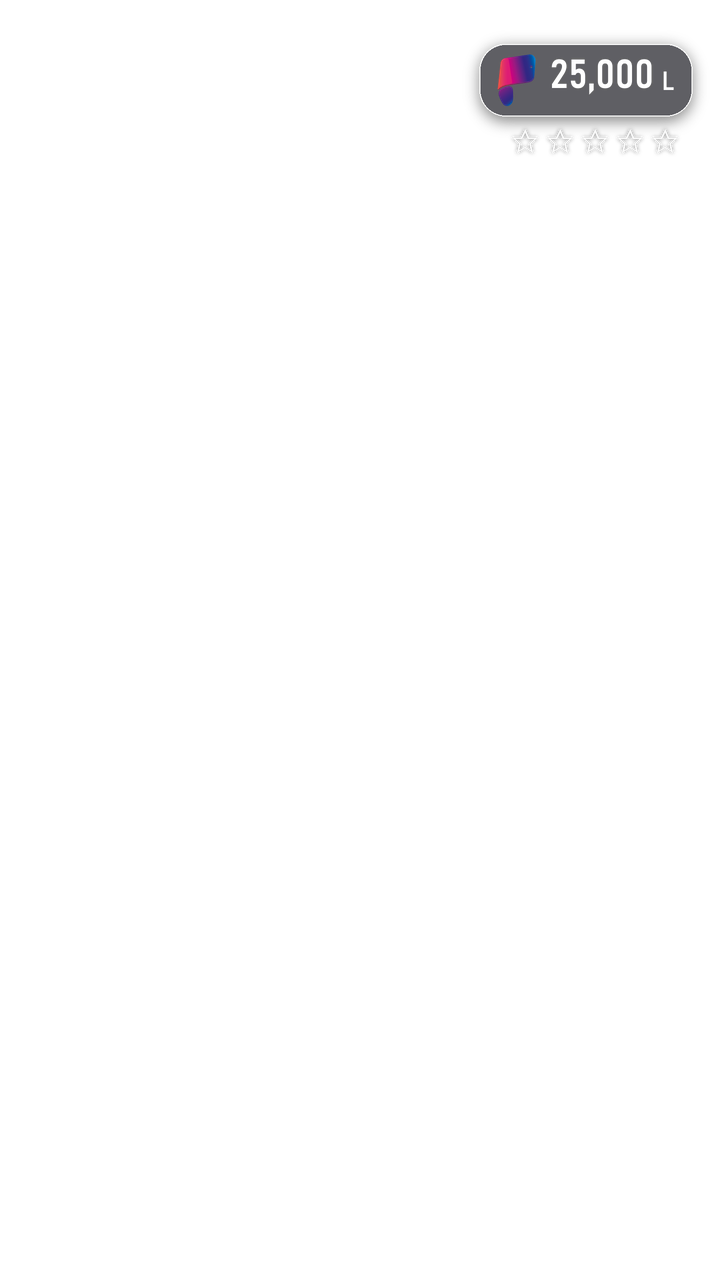
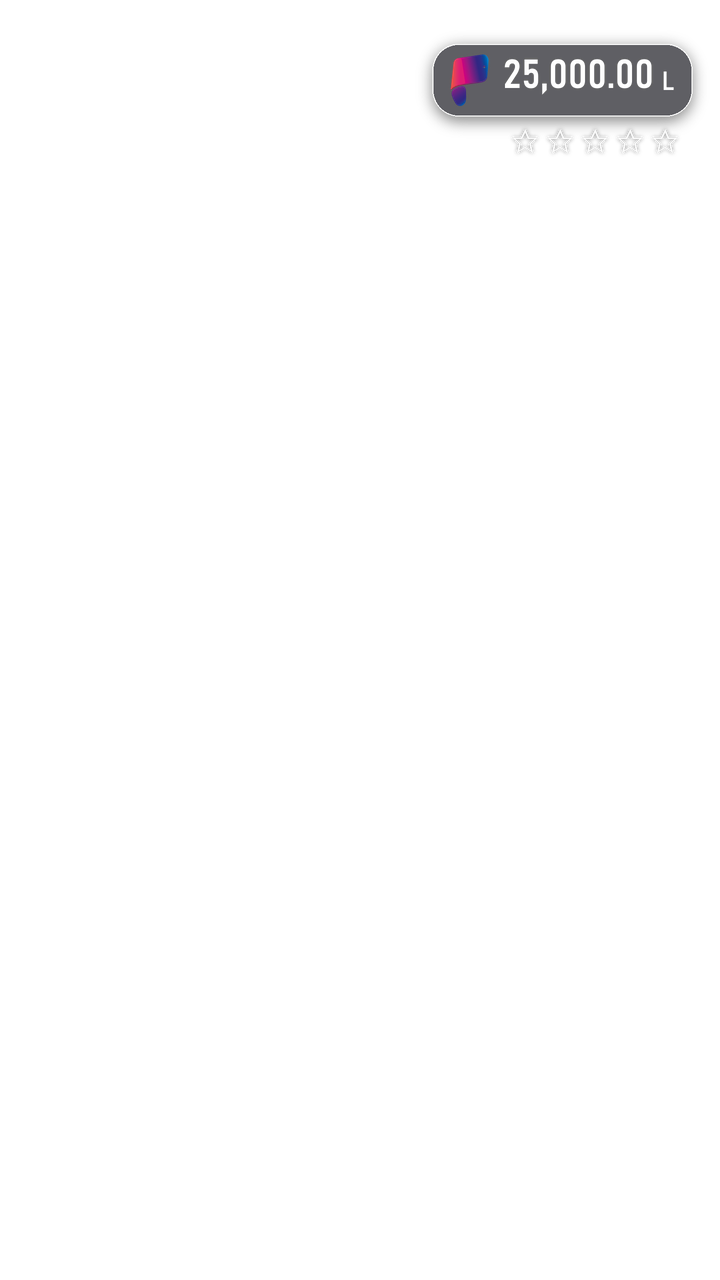
epara GTA: final montage, cashback 8.90 L

Changed region(s): [[0.5806, 0.0312, 0.8556, 0.125]]

diff --git a/projects/2026-11-epara-gta/montim/hud/build_v9.py b/projects/2026-11-epara-gta/montim/hud/build_v9.py
@@ -1,0 +1,140 @@
+"""Montage v9 final (cashback 8.90 L, balances with decimals): 15 v3 one-take, tighter trims, bench starts on lacing, animated radar, designed HUD, narrator + music.
+
+usage: python build_v6.py OUT.mp4 RADAR_FRAMES_DIR
+"""
+import subprocess, sys, os
+sys.path.insert(0, os.path.dirname(os.path.abspath(__file__)))
+import radar_anim
+
+D = "C:/Users/Desjon/Downloads/"
+HERE = os.path.dirname(os.path.abspath(__file__)).replace("\\", "/")
+PNG = HERE + "/png/"
+OUT, RDIR = sys.argv[1], sys.argv[2]
+NARR = D + "ElevenLabs_2026-11-20T00_33_28_eparaja_gen_s46_sim75_v4.mp3"
+END_LINE = D + "ElevenLabs_2026-11-20T01_00_05_eparaja_gen_s46_sim75_v4.mp3"
+MUSIC = D + "Golden_Hour_Getaway_2026-11-20T003425.wav"
+XF = 0.4     # white flash: street -> store interior
+HOLD = 1.5   # hold the logo at the end
+
+# name, file, in, out, crop16x9
+clips = [
+    ("14",  "hf_20261119_220155_17633204-917e-41fd-86d4-7a1bc7af38a1.mp4", 0.0, 4.0, False),
+    ("15",  "hf_20261120_010848_cefab0c6-b40f-4e49-b254-c5e687ca73e5.mp4", 0.3, 7.8, False),
+    ("16a", "hf_20261119_225727_e64ed23b-1347-4f97-8d4f-42dd367acd89 (1).mp4", 2.0, 8.84, False),
+    ("16b", "hf_20261119_225727_e64ed23b-1347-4f97-8d4f-42dd367acd89 (1).mp4", 10.6, 15.0, False),
+    ("18",  "epara_18v3_x1.5.mp4", 0.0, 3.37, False),
+    ("19",  "hf_20261119_230357_8aa691f0-930b-4260-be1c-f655990a4982.mp4", 0.4, 5.4, False),
+    ("12",  "hf_20261119_231359_df0643ca-0d97-486b-8467-f29ae0f62599.mp4", 0.3, 5.6, False),
+    ("21",  "hf_20261120_002537_d788d546-ac4c-46a0-9095-4a0732e0fd7d.mp4", 0.0, 10.05, False),
+    ("22",  "hf_20261119_233827_48fa4286-bdff-4487-bc77-c533f2f7cedf.mp4", 6.0, 13.7, True),
+    ("24",  "hf_20261120_001229_54012be9-82dc-4a3e-9160-0ab17dd21042.mp4", 0.0, 10.05, False),
+]
+XF_INTO = "16a"  # white-flash blend into this clip from the previous one
+
+S, t = {}, 0.0
+for name, f, a, b, _ in clips:
+    if name == XF_INTO:
+        t -= XF
+    S[name] = t
+    t += b - a
+TOTAL = t + HOLD
+print({k: round(v, 2) for k, v in S.items()}, "total", round(TOTAL, 2))
+
+tap = S["18"] + 1.65
+transfer = S["12"] + 0.9
+cash = S["21"] + 7.0
+mission = S["24"] + 1.6
+hud_end = S["24"] + 6.5
+
+ov = [  # png, start, end, slide px, fade
+    ("hud_25000.png", 0.6, tap + 0.1, 0, 0.3),
+    ("hud_16108.png", tap, transfer + 0.1, 0, 0.15),
+    ("hud_14108.png", transfer, cash + 0.1, 0, 0.15),
+    ("hud_12108.png", cash, hud_end, 0, 0.15),
+    ("toast_pay.png", tap, tap + 3.2, 50, 0.22),
+    ("toast_cashback.png", tap + 0.6, tap + 3.8, 50, 0.22),
+    ("toast_sent.png", transfer, transfer + 3.2, 50, 0.22),
+    ("toast_atm.png", cash, cash + 2.9, 50, 0.22),
+    ("loc_blloku.png", 0.8, 3.8, 50, 0.3),
+    ("loc_bulevardi.png", S["12"] + 0.3, S["12"] + 3.3, 50, 0.3),
+    ("loc_stadiumi.png", S["21"] + 0.2, S["21"] + 3.2, 50, 0.3),
+    ("mission.png", mission, mission + 3.8, 0, 0.35),
+]
+
+lines = [  # (in, out) of the one-shot take -> montage start
+    (0.00, 3.75, 0.60),
+    (4.60, 9.70, S["15"] + 0.5),
+    (10.95, 13.95, S["16a"] + XF + 0.3),
+    (14.85, 16.60, S["16b"] + 1.0),
+    (17.40, 22.50, S["18"] + 0.0),
+    (22.90, 24.95, S["19"] + 2.6),
+    (25.35, 29.20, S["12"] + 0.2),
+    (29.60, 32.40, S["21"] + 0.1),
+    (32.90, 39.45, S["21"] + 7.6),
+    (40.20, 43.15, mission),
+]
+end_at = S["24"] + 7.6
+
+ev = dict(walk_start=S["15"] + 2.2, store_enter=S["15"] + 7.0, exit_store=S["19"] + 0.2,
+          green=S["12"] + 4.2, atm_walk=S["21"], cart_walk=S["21"] + 8.4, s2=S["12"], s3=S["21"])
+print("radar frames", radar_anim.render(ev, hud_end, RDIR))
+
+args = ["ffmpeg", "-v", "error", "-y"]
+for _, f, *_ in clips:
+    args += ["-i", D + f]
+n = len(clips)
+args += ["-i", NARR, "-i", MUSIC, "-i", END_LINE]
+NI, MI, EI = n, n + 1, n + 2
+OI = n + 3
+for png, a, b, *_ in ov:
+    args += ["-loop", "1", "-framerate", "24", "-t", f"{b - a:.3f}", "-i", PNG + png]
+RI = OI + len(ov)
+args += ["-framerate", "24", "-i", RDIR + "/radar_%05d.png"]
+
+g = []
+for i, (name, f, a, b, crop) in enumerate(clips):
+    v = f"[{i}:v]trim={a}:{b},setpts=PTS-STARTPTS"
+    if crop:
+        v += ",crop=405:720,scale=720:1280:flags=lanczos"
+    g.append(v + f",fps=24,format=yuv420p,setsar=1[v{i}]")
+    g.append(f"[{i}:a]atrim={a}:{b},asetpts=PTS-STARTPTS,aresample=48000[a{i}]")
+xi = [c[0] for c in clips].index(XF_INTO)
+pd = clips[xi - 1][3] - clips[xi - 1][2]
+g.append(f"[v{xi-1}][v{xi}]xfade=transition=fadewhite:duration={XF}:offset={pd - XF:.3f}[vx]")
+g.append(f"[a{xi-1}][a{xi}]acrossfade=d={XF}[ax]")
+seq = [(f"[v{i}]", f"[a{i}]") for i in range(xi - 1)] + [("[vx]", "[ax]")] + [(f"[v{i}]", f"[a{i}]") for i in range(xi + 1, n)]
+g.append("".join(v + a for v, a in seq) + f"concat=n={len(seq)}:v=1:a=1[base0][sfx00]")
+g.append(f"[base0]tpad=stop_mode=clone:stop_duration={HOLD}[base]")
+g.append(f"[sfx00]apad=pad_dur={HOLD}[sfx0]")
+
+cur = "base"
+for k, (png, a, b, slide, fd) in enumerate(ov):
+    dur = b - a
+    g.append(f"[{OI + k}:v]format=rgba,fade=t=in:st=0:d={fd}:alpha=1,fade=t=out:st={dur - fd:.3f}:d={fd}:alpha=1,"
+             f"setpts=PTS-STARTPTS+{a:.3f}/TB[o{k}]")
+    x = "0" if slide == 0 else f"'if(lt(t-{a:.3f},{fd}),{slide}*(1-(t-{a:.3f})/{fd}),0)'"
+    g.append(f"[{cur}][o{k}]overlay=x={x}:y=0:eof_action=pass:format=auto[c{k}]")
+    cur = f"c{k}"
+g.append(f"[{RI}:v]format=rgba[rad]")
+g.append(f"[{cur}][rad]overlay=x={34 - radar_anim.PAD}:y={1280 - 40 - radar_anim.D - radar_anim.PAD}:eof_action=pass:format=auto,format=yuv420p[vout]")
+
+for i, (a, b, at) in enumerate(lines):
+    ms = int(at * 1000)
+    g.append(f"[{NI}:a]atrim={a}:{b},asetpts=PTS-STARTPTS,aresample=48000,afade=t=in:d=0.04,"
+             f"afade=t=out:st={b - a - 0.06:.2f}:d=0.06,adelay={ms}|{ms}[n{i}]")
+g.append(f"[{EI}:a]aresample=48000,adelay={int(end_at*1000)}|{int(end_at*1000)}[nend]")
+g.append("".join(f"[n{i}]" for i in range(len(lines))) + "[nend]" +
+         f"amix=inputs={len(lines) + 1}:normalize=0,volume=1.6,apad,atrim=0:{TOTAL:.3f}[voice]")
+g.append("[voice]asplit=2[vmix][vkey]")
+g.append(f"[{MI}:a]aresample=48000,atrim=0:{TOTAL:.3f},afade=t=out:st={TOTAL - 2.0:.3f}:d=2.0,volume=0.55[mus]")
+g.append("[mus][vkey]sidechaincompress=threshold=0.03:ratio=6:attack=20:release=400[musd]")
+g.append("[sfx0]volume=0.40[sfx]")
+g.append("[vmix][musd][sfx]amix=inputs=3:normalize=0,loudnorm=I=-14:TP=-1.5:LRA=11[aout]")
+
+fs = OUT + ".filter.txt"
+open(fs, "w", encoding="utf-8").write(";\n".join(g))
+args += ["-/filter_complex", fs, "-map", "[vout]", "-map", "[aout]", "-c:v", "libx264", "-crf", "17",
+         "-preset", "medium", "-c:a", "aac", "-b:a", "256k", "-ar", "48000", "-t", f"{TOTAL:.3f}", OUT]
+r = subprocess.run(args, capture_output=True, text=True)
+os.remove(fs)
+print(r.returncode, r.stderr[-2500:])

diff --git a/projects/2026-11-epara-gta/montim/hud/render_hud.py b/projects/2026-11-epara-gta/montim/hud/render_hud.py
@@ -255,12 +255,12 @@ def radar(plate, crop_box, name, route=None, pin=None, rotate=0):
     save(im, name)
 
 
-hud_base("25,000", "hud_25000.png")
-hud_base("16,278", "hud_16278.png")
-hud_base("14,278", "hud_14278.png")
-hud_base("12,278", "hud_12278.png")
+hud_base("25,000.00", "hud_25000.png")
+hud_base("16,108.90", "hud_16108.png")
+hud_base("14,108.90", "hud_14108.png")
+hud_base("12,108.90", "hud_12108.png")
 toast("-8,900 L", "CARD PAYMENT", (255, 92, 96), "toast_pay.png")
-toast("+178 L", "CASHBACK", (64, 224, 150), "toast_cashback.png", y=252)
+toast("+8.90 L", "CASHBACK", (64, 224, 150), "toast_cashback.png", y=252)
 toast("-2,000 L", "SENT TO ARBI", (255, 92, 96), "toast_sent.png")
 toast("-2,000 L", "ATM WITHDRAWAL", (255, 92, 96), "toast_atm.png")
 location("BLLOKU", "TIRANA", "loc_blloku.png")

diff --git a/projects/2026-11-epara-gta/log.md b/projects/2026-11-epara-gta/log.md
@@ -42,3 +42,4 @@
 | 2026-11-20 | montim v7 | ffmpeg + PIL | `montim/epara_montim_v7.mp4` (66.7 s): 21 v3 i plotë (karta hyn, bota brenda ATM-së); 16a pritet para kuadrove me atletet e vjetra | logoja e kartës përmbys brenda ATM-së mbetet | — | build: `montim/hud/build_v7.py` |
 | 2026-11-20 | video 18 v3 karta vertikale | Seedream edit + Seedance i2v | `Downloads/hf_20261120_013144_a3911bcf-...mp4` (5 s): karta vertikale identike me origjinalen, shitësja pa fytyrë, dritat jeshile | pak e ngadaltë | — | ✅ përshpejtuar 1.5x → 3.4 s |
 | 2026-11-20 | montim v8 | ffmpeg + PIL | `montim/epara_montim_v8.mp4` (65.3 s): 18 v3 me kartën vertikale (1.5x), HUD i pagesës te prekja | — | — | build: `montim/hud/build_v8.py` |
+| 2026-11-20 | montim final | ffmpeg + PIL | `montim/epara_GTA_final.mp4` (65.3 s): si v8 + cashback +8.90 L dhe bilancet me decimale | — | — | build: `montim/hud/build_v9.py` |

diff --git a/projects/2026-11-epara-gta/feedback.md b/projects/2026-11-epara-gta/feedback.md
@@ -71,3 +71,4 @@ Shëno menjëherë, me fjalët e përdoruesit. 👍 pëlqen · 👎 s'pëlqen ·
 | 2026-11-20 | 👍 | "perpos ketyre pjesa tjeter eshte shume nice" | montim v6 | projekt |
 | 2026-11-20 | 🔧 | "duhet rregulluar qe karta te jete ekzakt si origjinalja, vetem ky eshte problemi kur ai paguan me karte, pjesa tjeter eshte shume lart" | 18 v2 (karta horizontale) | projekt; 18 v3 frame-first; 👍 pjesa tjetër e montimit v7 |
 | 2026-11-20 | 🔧 | "ndoshta mund ta shpejtosh pak" | 18 v3 | projekt; 1.5x në montim; 💡 frame-first e zgjidhi orientimin e kartës (vertikale) që prompti vetëm s'e mbante |
+| 2026-11-20 | 🔧 | "cashback beje nga 178 ne 8.9 leke ne editim dhe me jep videon e plote" | HUD cashback | projekt; +8.90 L, bilancet me 2 decimale (25,000.00 → 16,108.90 → 14,108.90 → 12,108.90) |
